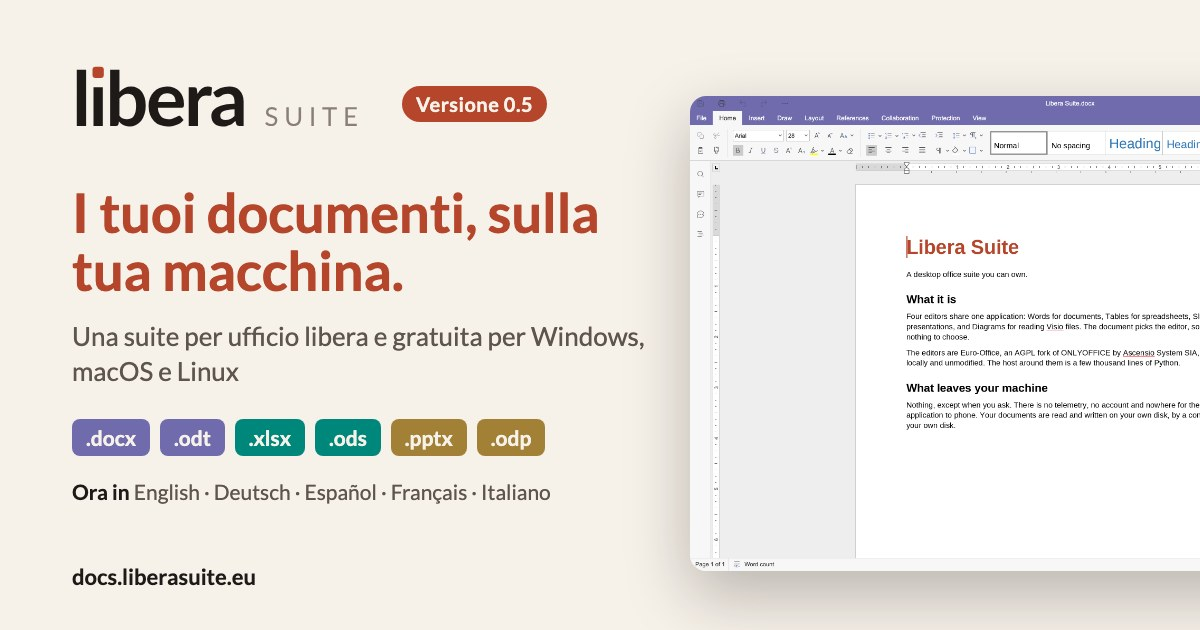
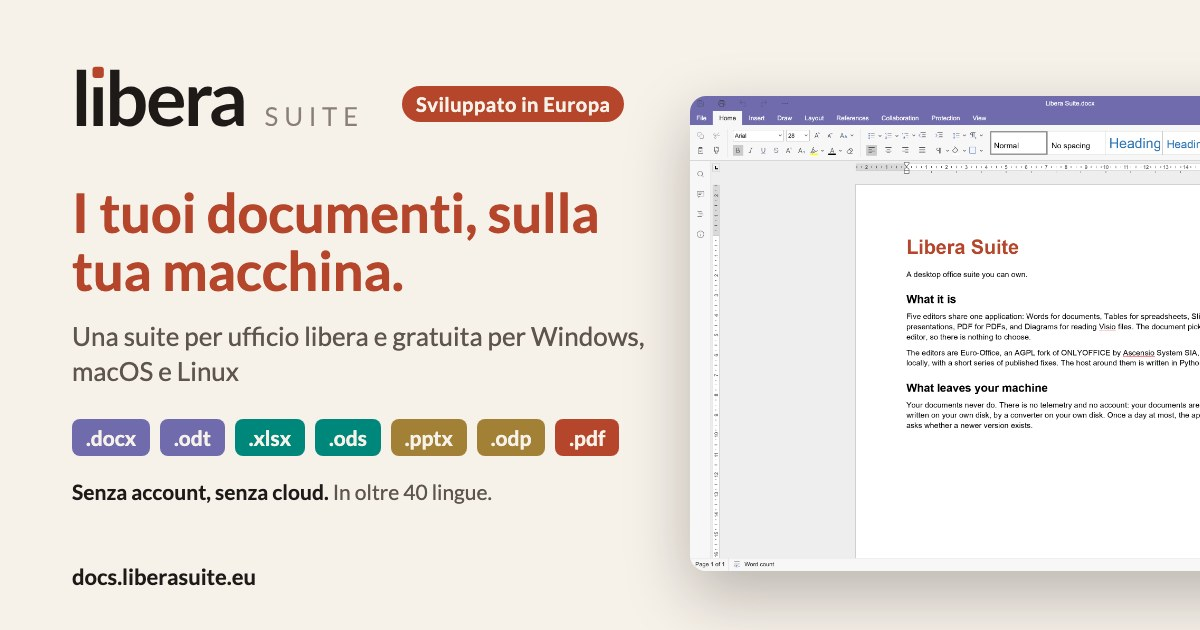
doc: share cards drop the version, changelog marks 0.7.4

diff --git a/docs/cards.py b/docs/cards.py
@@ -3,20 +3,21 @@
 
     uv run --project .. --with playwright python cards.py
 
-One per edition, in its own language, from `card_tagline`, `card_line`,
-`card_version` and `card_now_in` in editions.toml, written to
+One per edition, in its own language, from `card_badge`, `card_tagline`,
+`card_line`, `card_promise` and `card_languages` in editions.toml, written to
 src/assets/og/card-<lang>.jpg, which is where overrides/main.html points
 og:image. 1200 by 630 is the size the networks crop least.
 
-The badge carries the application's version, from pyproject.toml, and the
-last line the languages its interface speaks: English, and one per catalogue
-in src/libera/host/locale/. Both are read when the cards are drawn, so they
-are as current as the last run.
+The card names no version and no exact count of languages: a shared link
+keeps its picture for months, and a card that ages with each release is
+wrong by the next one. `card_languages` says "more than 40", which stays true
+while the interface has at least 41 catalogues (counting English); main()
+checks it.
 
 The wordmark is figures/brand/wordmark-suite.svg, copied from the branding
 repository like the application's icon; do not edit it here. Lato comes from
 Google Fonts, so drawing the cards needs the network. Regenerate after changing
-a tagline, the brand or the Words screenshot, and at each minor release.
+the text, the brand or the Words screenshot.
 """
 
 from __future__ import annotations
@@ -33,16 +34,8 @@ DOCS = Path(__file__).parent
 OUT = DOCS / "src" / "assets" / "og"
 LOCALES = DOCS.parent / "src" / "libera" / "host" / "locale"
 
-# Each interface language under its own name. A catalogue with no name here
-# stops the drawing: add it.
-ENDONYMS = {
-    "en": "English",
-    "fr": "Français",
-    "de": "Deutsch",
-    "it": "Italiano",
-    "es": "Español",
-    "nl": "Nederlands",
-}
+# `card_languages` claims more than this many interface languages.
+LANGUAGES_CLAIMED = 40
 
 CARD = Template("""<!doctype html>
 <meta charset="utf-8">
@@ -60,9 +53,10 @@ CARD = Template("""<!doctype html>
   .words { background: #6F6BAD; }
   .tables { background: #00877C; }
   .slides { background: #A28137; }
+  .pdf { background: #B5462B; }
   .url { position: absolute; left: 72px; bottom: 40px;
          font-size: 22px; font-weight: 700; }
-  .version { position: absolute; left: 330px; top: 22px; padding: 6px 14px;
+  .badge { position: absolute; left: 330px; top: 22px; padding: 6px 14px;
              border-radius: 999px; background: #B5462B; color: #F6F1E9;
              font-size: 20px; font-weight: 700; letter-spacing: 0.5px; }
   .langs { margin-top: 22px; font-size: 21px; color: #5E554E; }
@@ -71,7 +65,7 @@ CARD = Template("""<!doctype html>
           box-shadow: 0 24px 64px rgba(30, 26, 23, 0.28); }
 </style>
 <div class="text">
-  <span class="version">$version</span>
+  <span class="badge">$badge</span>
   <img class="wordmark" src="$wordmark" alt="">
   <h1>$tagline</h1>
   <p>$line</p>
@@ -79,8 +73,9 @@ CARD = Template("""<!doctype html>
     <span class="words">.docx</span><span class="words">.odt</span>
     <span class="tables">.xlsx</span><span class="tables">.ods</span>
     <span class="slides">.pptx</span><span class="slides">.odp</span>
+    <span class="pdf">.pdf</span>
   </div>
-  <p class="langs"><b>$now_in</b> $languages</p>
+  <p class="langs"><b>$promise</b> $languages</p>
 </div>
 <img class="shot" src="$shot" alt="">
 <div class="url">docs.liberasuite.eu</div>
@@ -91,20 +86,14 @@ def data_uri(path: Path, mime: str) -> str:
     return f"data:{mime};base64,{base64.b64encode(path.read_bytes()).decode()}"
 
 
-def minor_version() -> str:
-    """0.5 for 0.5.0: a patch release does not need a new card."""
-    pyproject = tomllib.loads((DOCS.parent / "pyproject.toml").read_text("utf-8"))
-    return ".".join(pyproject["project"]["version"].split(".")[:2])
-
-
-def interface_languages() -> str:
-    codes = ["en", *sorted(p.stem for p in LOCALES.glob("*.json"))]
-    return " · ".join(ENDONYMS[code] for code in codes)
-
-
 def main() -> None:
+    languages = 1 + len(list(LOCALES.glob("*.json")))  # English has no catalogue
+    if languages <= LANGUAGES_CLAIMED:
+        raise SystemExit(
+            f"cards: the interface has {languages} languages, but card_languages"
+            f" claims more than {LANGUAGES_CLAIMED}: change the text"
+        )
     editions = tomllib.loads((DOCS / "editions.toml").read_text("utf-8"))
-    version, languages = minor_version(), interface_languages()
     images = {
         "wordmark": data_uri(
             DOCS / "figures/brand/wordmark-suite.svg", "image/svg+xml"
@@ -119,11 +108,11 @@ def main() -> None:
             page.set_content(
                 CARD.substitute(
                     images,
+                    badge=html.escape(strings["card_badge"]),
                     tagline=html.escape(strings["card_tagline"]),
                     line=html.escape(strings["card_line"]),
-                    version=html.escape(f"{strings['card_version']} {version}"),
-                    now_in=html.escape(strings["card_now_in"]),
-                    languages=html.escape(languages),
+                    promise=html.escape(strings["card_promise"]),
+                    languages=html.escape(strings["card_languages"]),
                 ),
                 wait_until="networkidle",
             )

diff --git a/CHANGES.md b/CHANGES.md
@@ -4,7 +4,7 @@ The format is based on [Keep a Changelog](https://keepachangelog.com/en/1.0.0/),
 
 The **application** is this package, `libera`. The **editor payload** is the Euro-Office build, from 0.7 as two more packages (`libera-core` and `libera-web`). Up to 0.7.0 the two were versioned separately; from 0.7.2 the three packages share one version. `libera --version` prints both.
 
-## [Unreleased]
+## [0.7.4] - 2026-11-23
 
 ### Changed
 
